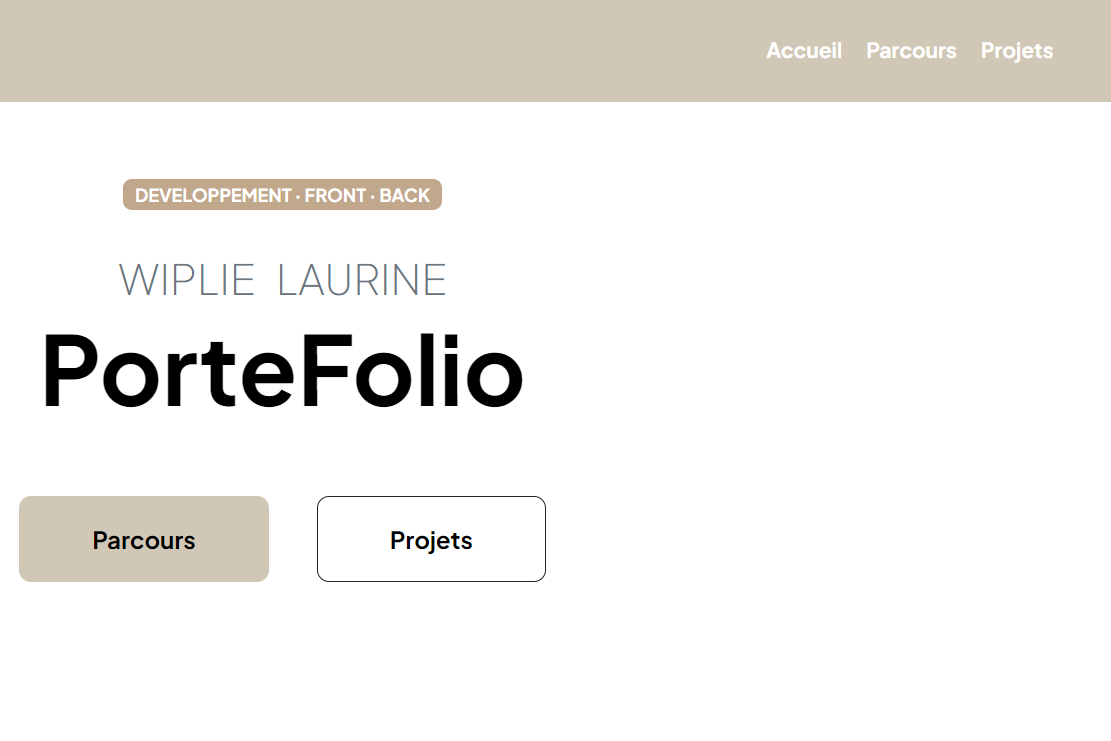
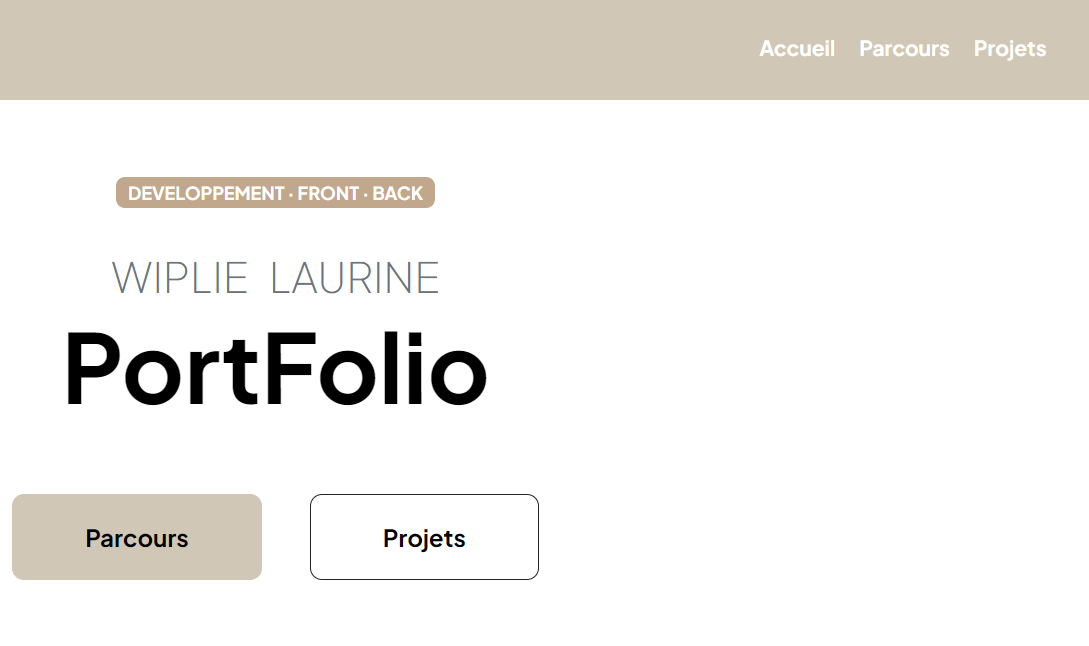
Download

diff --git a/index.html b/index.html
@@ -37,7 +37,7 @@
                             <div class="text-center text-xxl-start">
                                 <div class="badge bg-gradient-primary-to-secondary text-white mb-4"><div class="text-uppercase">Developpement &middot; Front &middot; Back</div></div>
                                 <div class="fs-3 fw-light text-muted">WIPLIE &nbsp; LAURINE</div>
-                                <h1 class="display-3 fw-bolder mb-5"><span class="text-gradient d-inline">PorteFolio</span></h1>
+                                <h1 class="display-3 fw-bolder mb-5"><span class="text-gradient d-inline">PortFolio</span></h1>
                                 <div class="d-grid gap-3 d-sm-flex justify-content-sm-center justify-content-xxl-start mb-3">
                                     <a class="btn btn-primary btn-lg px-5 py-3 me-sm-3 fs-6 fw-bolder" href="resume.html">Parcours</a>
                                     <a class="btn btn-outline-dark btn-lg px-5 py-3 fs-6 fw-bolder" href="projects.html">Projets</a>
@@ -62,8 +62,8 @@
                     </div>
                 </div>  
                 <div class="d-grid gap-3 d-sm-flex justify-content-sm-center justify-content-xxl-start mb-3">
-                    <a class="btn btn-primary btn-lg px-5 py-3 me-sm-3 fs-6 fw-bolder" href="/assets/Laurine_Wiplie_CV.pdf">Mon CV</a>
-                    <a class="btn btn-outline-dark btn-lg px-5 py-3 fs-6 fw-bolder" href="/assets/English_CV.pdf">CV Anglais</a>
+                    <a class="btn btn-primary btn-lg px-5 py-3 me-sm-3 fs-6 fw-bolder" href="/assets/Laurine_Wiplie_CV.pdf" download="Laurine_Wiplie_CV">Mon CV</a>
+                    <a class="btn btn-outline-dark btn-lg px-5 py-3 fs-6 fw-bolder" href="/assets/English_CV.pdf" download="Laurine_Wiplie_English_CV">CV Anglais</a>
                 </div>
             </header>
             <!-- About Section-->

diff --git a/projects.html b/projects.html
@@ -118,7 +118,7 @@
                                             <div class="fw-bolder">
                                                 <a class="text-gradient" href="https://github.com/LaurineW/Portefolio"><i class="bi bi-github"></i></a>
                                             </div>
-                                            <h2 class="fw-bolder">PorteFolio</h2>
+                                            <h2 class="fw-bolder">PortFolio</h2>
                                             <p>Vous vous trouvez actuellement sur ce projet. Dans le cadre du cours de communication nous devions individuellement s'occuper de créer notre site web.</p>
                                         </div>
                                         <img class="img-fluid" src="assets/projet5.PNG" alt="..." height="400" width="300" />
